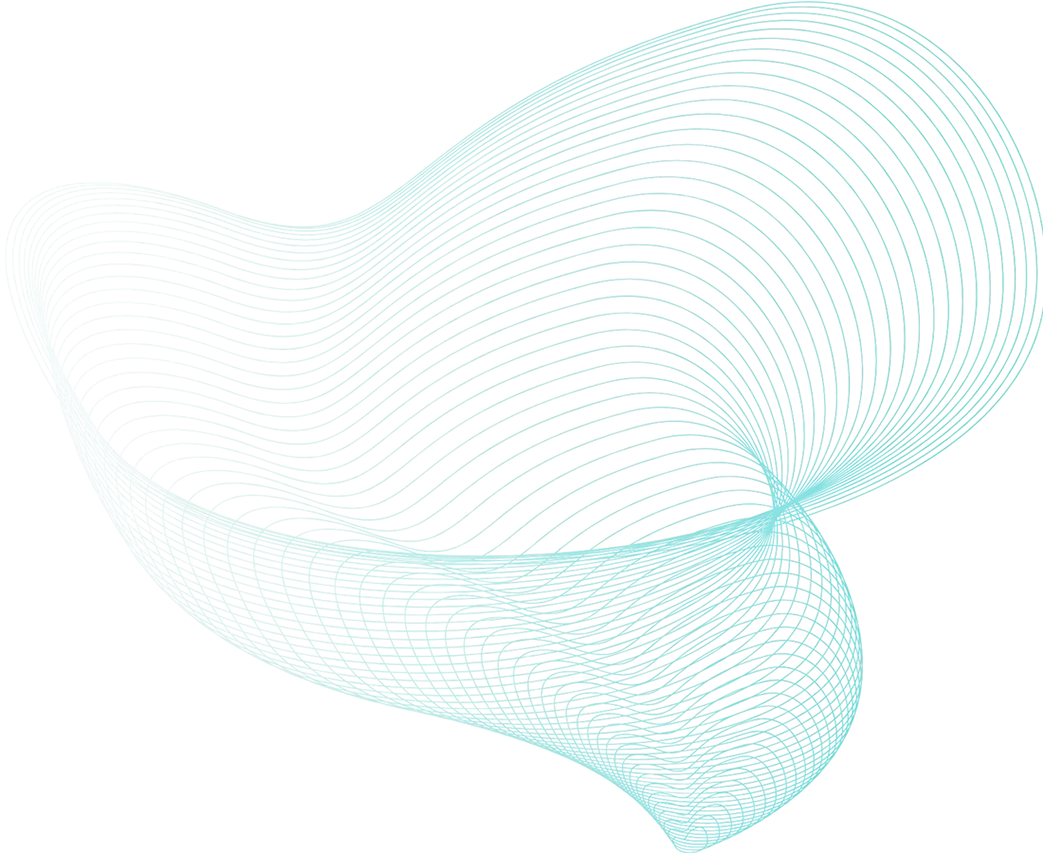
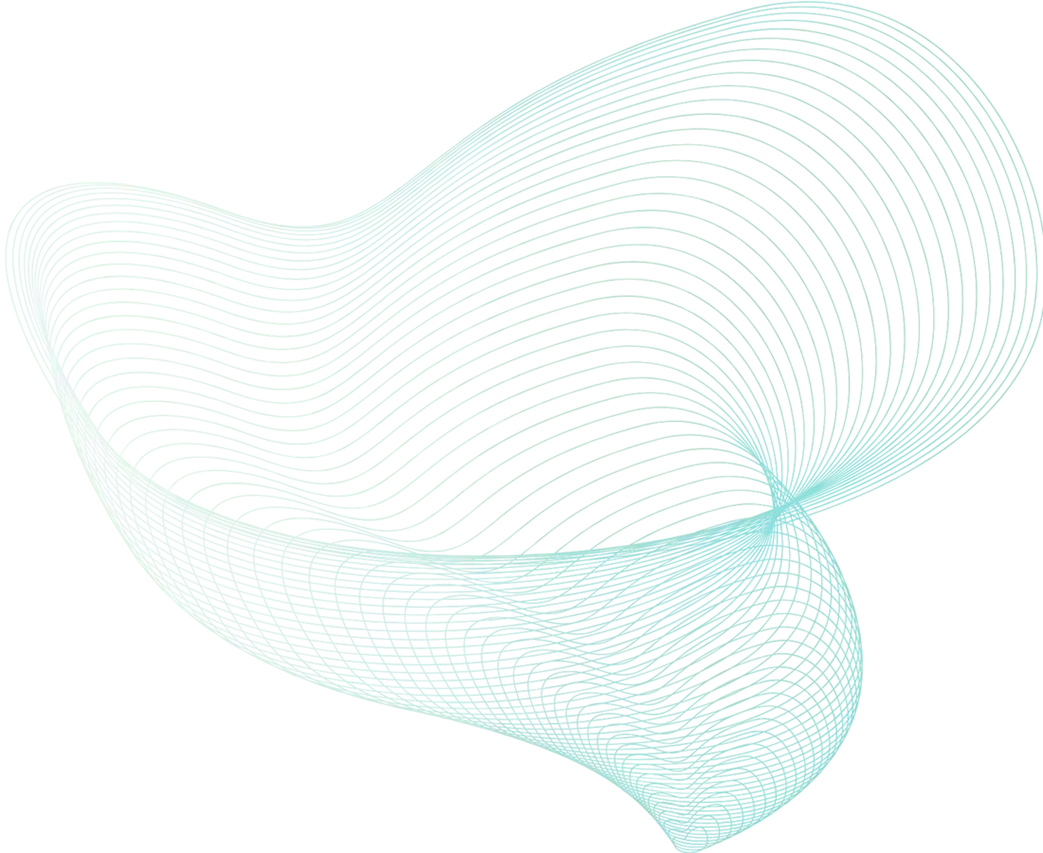
fix: fix the optimization

diff --git a/vite.config.ts b/vite.config.ts
@@ -21,22 +21,22 @@ export default () => {
       port: 3000,
       host: '0.0.0.0',
     },
-    build:{
+    build: {
       cssCodeSplit: true,
-    rollupOptions: {
-      output: {
-        manualChunks: {
-          vendor: ['react', 'react-dom']
+      rollupOptions: {
+        output: {
+          manualChunks: {
+            vendor: ['react', 'react-dom'],
+          },
+          assetFileNames: (assetInfo) => {
+            if (assetInfo.name.endsWith('.css')) {
+              return 'assets/css/[name]-[hash][extname]'
+            }
+            return 'assets/[name]-[hash][extname]'
+          },
         },
-        assetFileNames: (assetInfo) => {
-          if (assetInfo.name.endsWith('.css')) {
-            return 'assets/css/[name]-[hash][extname]';
-          }
-          return 'assets/[name]-[hash][extname]';
-        }
-      }
+      },
+      chunkSizeWarningLimit: 1000,
     },
-    chunkSizeWarningLimit: 1000
-    }
   })
 }

diff --git a/src/features/aboutUs/ui/ui.tsx b/src/features/aboutUs/ui/ui.tsx
@@ -17,7 +17,7 @@ import { useMediaQuery } from '@mantine/hooks'
 const Ui = memo(() => {
   const { navigateAndScroll } = useNavigationScroll()
   const pageInfo = FindByName('About Us')
-  const isMobile = useMediaQuery('(max-width: 768px)');
+  const isMobile = useMediaQuery('(max-width: 768px)')
   return (
     <section id="dashboard-about-section">
       <Wrapper
@@ -26,7 +26,7 @@ const Ui = memo(() => {
         fullHeight={false}
         rightSection={
           <Image
-            src={"/pc.webp"}
+            src={'/pc.webp'}
             alt="pc image"
             miw={300}
             height="100%"
